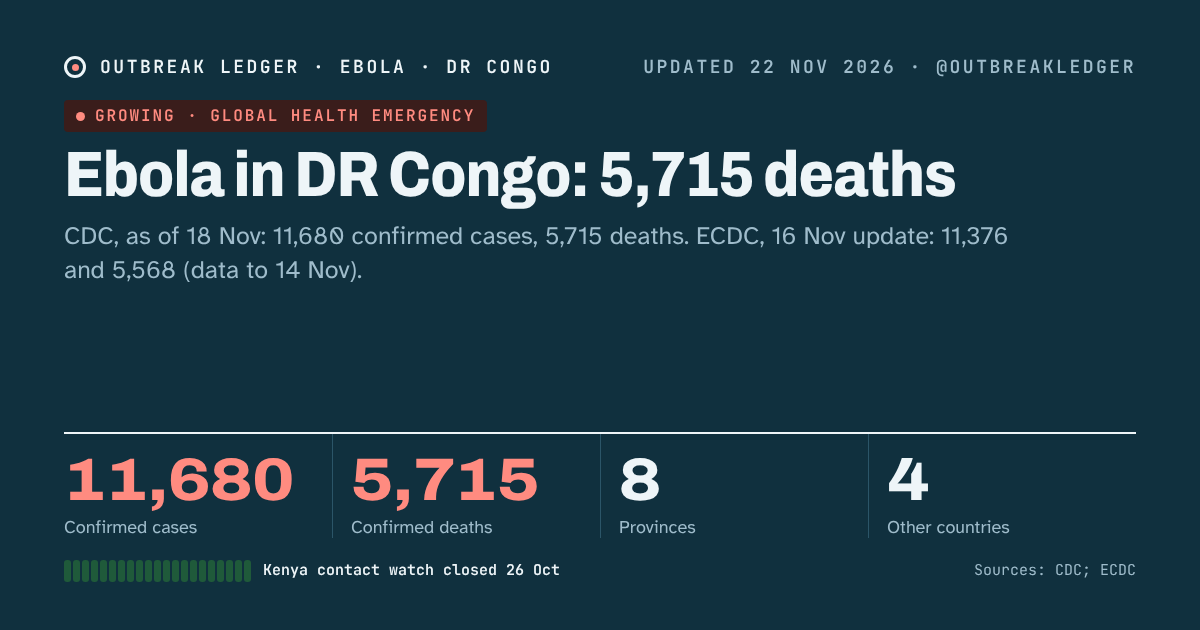
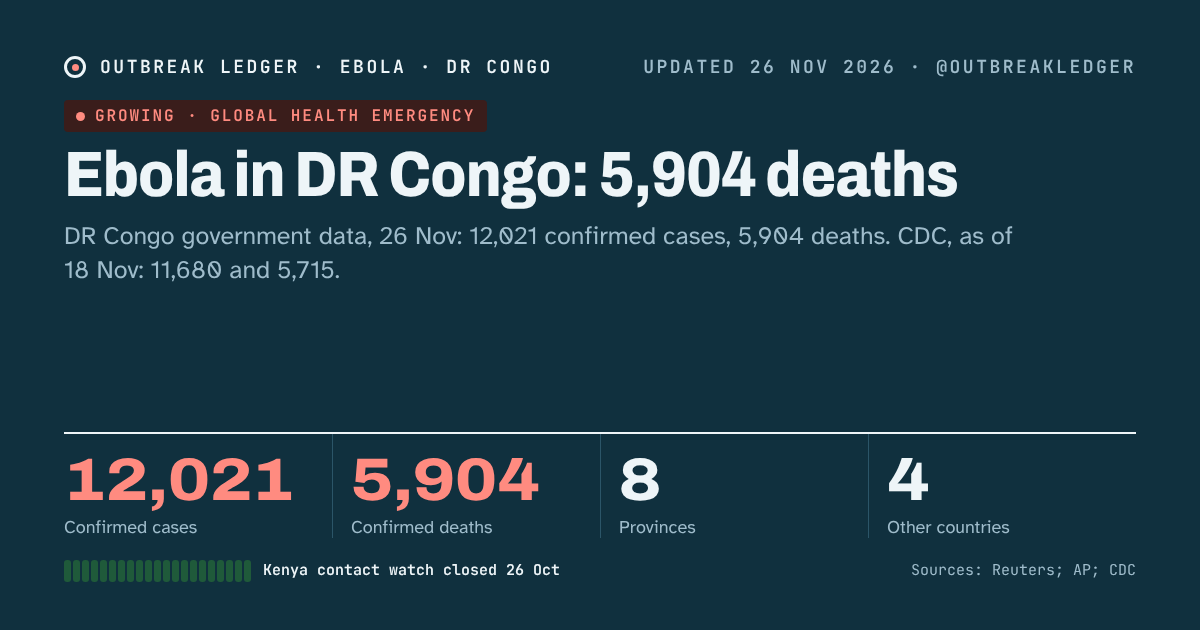
Trackers: Ebola DR Congo government data 12,021 cases / 5,904 deaths; others checked, no change
Claude-Session: https://claude.ai/code/session_01DjK934MGj4uKY77RiACNyU

diff --git a/site/ebola/share/latest-post.md b/site/ebola/share/latest-post.md
@@ -1,5 +1,3 @@
-CDC's situation summary lists 11,680 confirmed Ebola cases and 5,715 deaths in DR Congo as of 18 Nov. ECDC's 16 Nov update counted 11,376 and 5,568 (data to 14 Nov). Kenya's 42-day countdown runs from 11 Nov.
+DR Congo government data show 12,021 confirmed Ebola cases and 5,904 deaths, Reuters and AP reported on 26 Nov. CDC's summary listed 11,680 and 5,715 as of 18 Nov. Sources and history: https://nhlebe1.github.io/ai-scheduler-platform/ebola/
 
-https://nhlebe1.github.io/ai-scheduler-platform/ebola/
-
-Sources: CDC Ebola situation summary (https://www.cdc.gov/ebola/situation-summary/index.html); ECDC update of 16 Nov (https://www.ecdc.europa.eu/en/public-health-events/2026-eip-00026/2026-11-16).
+Sources: Reuters (https://www.tradingview.com/news/reuters.com,2026:newsml_S8N45H02T:0-congo-s-ebola-cases-surpass-12-000-government-data-shows/); AP (https://whdh.com/news/ebola-outbreak-in-congo-reaches-12000-cases-as-violence-forces-some-responders-to-evacuate/); CDC (https://www.cdc.gov/ebola/situation-summary/index.html).
